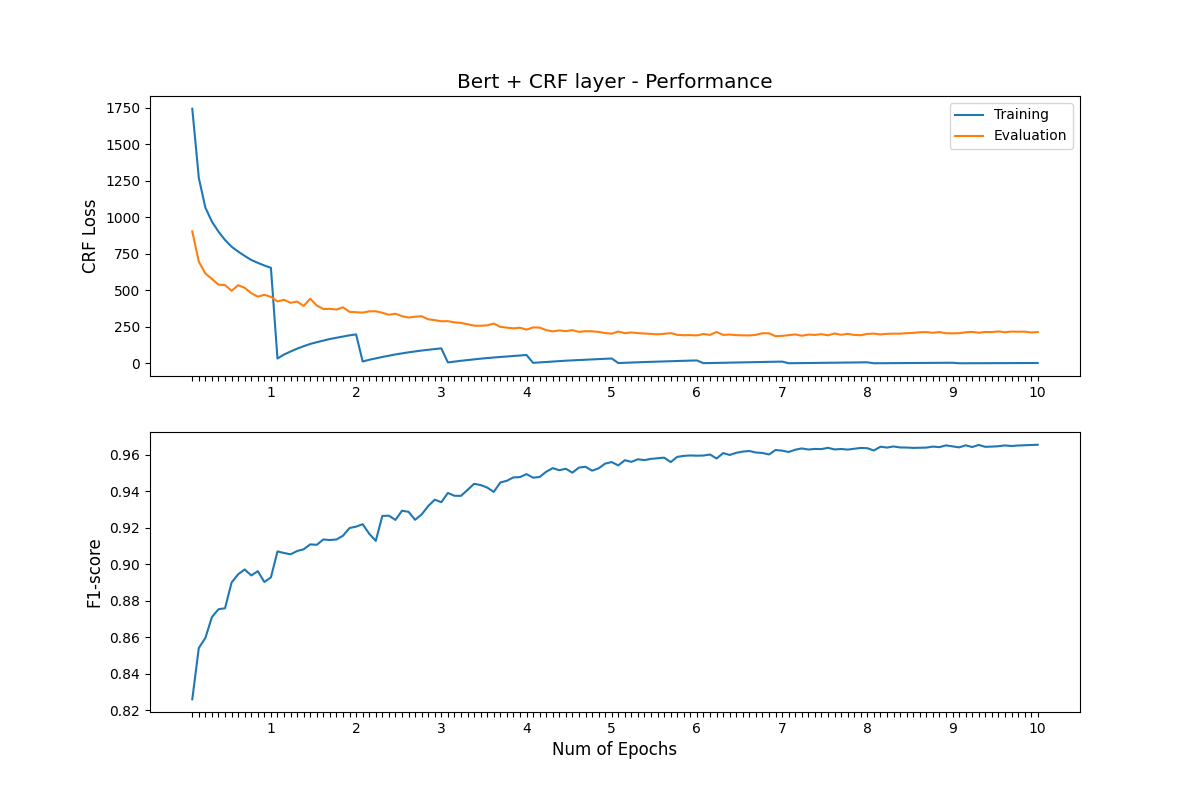
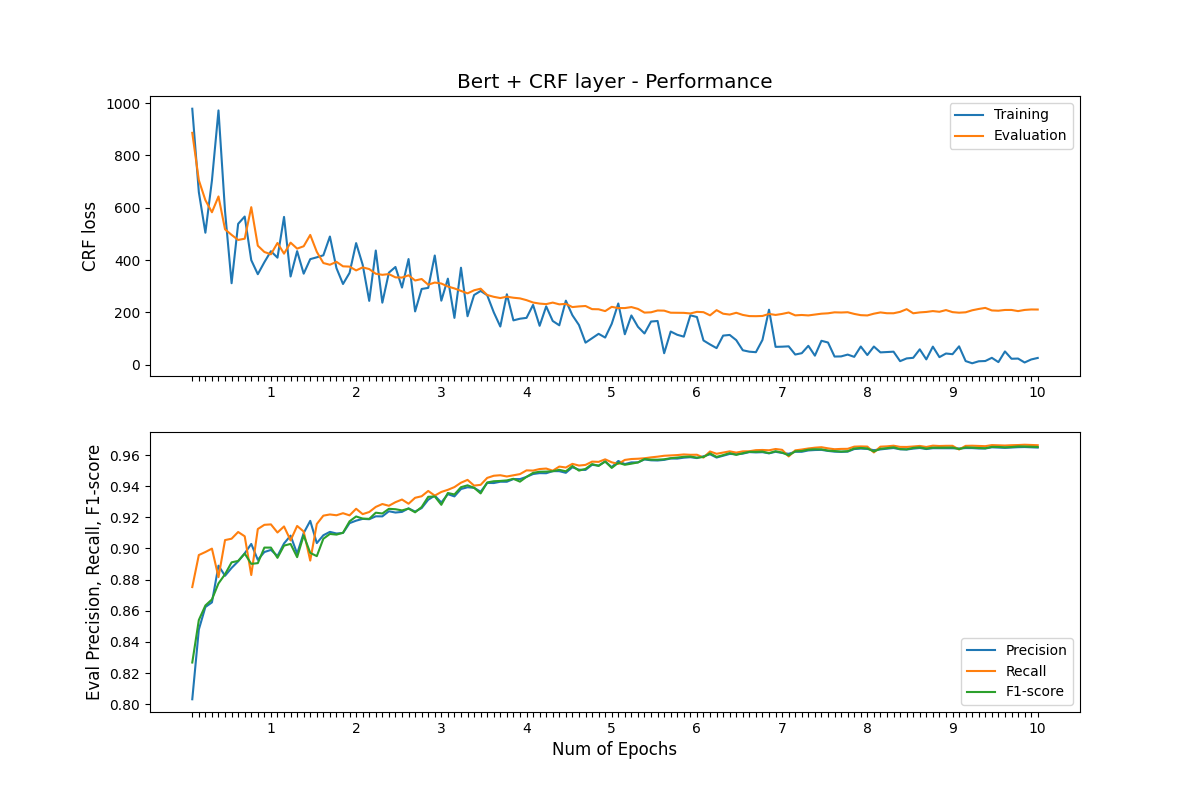
Convert tensor on gpu to numpy with .cpu().numpy() . Revise axes[1].legend() .

diff --git a/run_ner.py b/run_ner.py
@@ -18,6 +18,8 @@ from bert_chinese_ner.metrics.ner_metrics import score_func
 from bert_chinese_ner.utils.plot_loss import loss_metric_plot
 from bert_chinese_ner.models.transformers.models.bert.configuration_bert import BertConfig
 
+import importlib
+importlib.reload(ner_config)
 
 MODEL_CLASSES = {
     'bert': (BertConfig, BertCrfForNer, ner_config.TOKENIZER),
@@ -183,7 +185,7 @@ def predict_fn(inputs, model, id_to_label, model_tokenizer, device):
 
         pred_tags = model.crf.decode(logits, data['attention_mask']).cpu().numpy().reshape(-1)
         y_pred = [id_to_label[i] for i in pred_tags[1:data['attention_mask'].sum()-1]]
-        y_true = [id_to_label[i] for i in data['label_ids'].squeeze(0).numpy()[1:data['attention_mask'].sum()-1]]
+        y_true = [id_to_label[i] for i in data['label_ids'].squeeze(0).cpu().numpy()[1:data['attention_mask'].sum()-1]]
 
         for c, p, t in zip(tokenized_sent, y_pred, y_true):
             print(c, p, t)

diff --git a/bert_chinese_ner/utils/plot_loss.py b/bert_chinese_ner/utils/plot_loss.py
@@ -30,7 +30,7 @@ def loss_metric_plot(history, epochs, img_path, plot_title, y_label):
     axes[1].set_xticks(steps)
     axes[1].set_xticklabels(sparse_epochs)
 
-    axes[0].legend(loc='lower right')
+    axes[1].legend(loc='lower right')
     axes[1].set_xlabel('Num of Epochs', fontsize='large')
     axes[1].set_ylabel('Eval Precision, Recall, F1-score', fontsize='large')
     # axes[1].grid()
